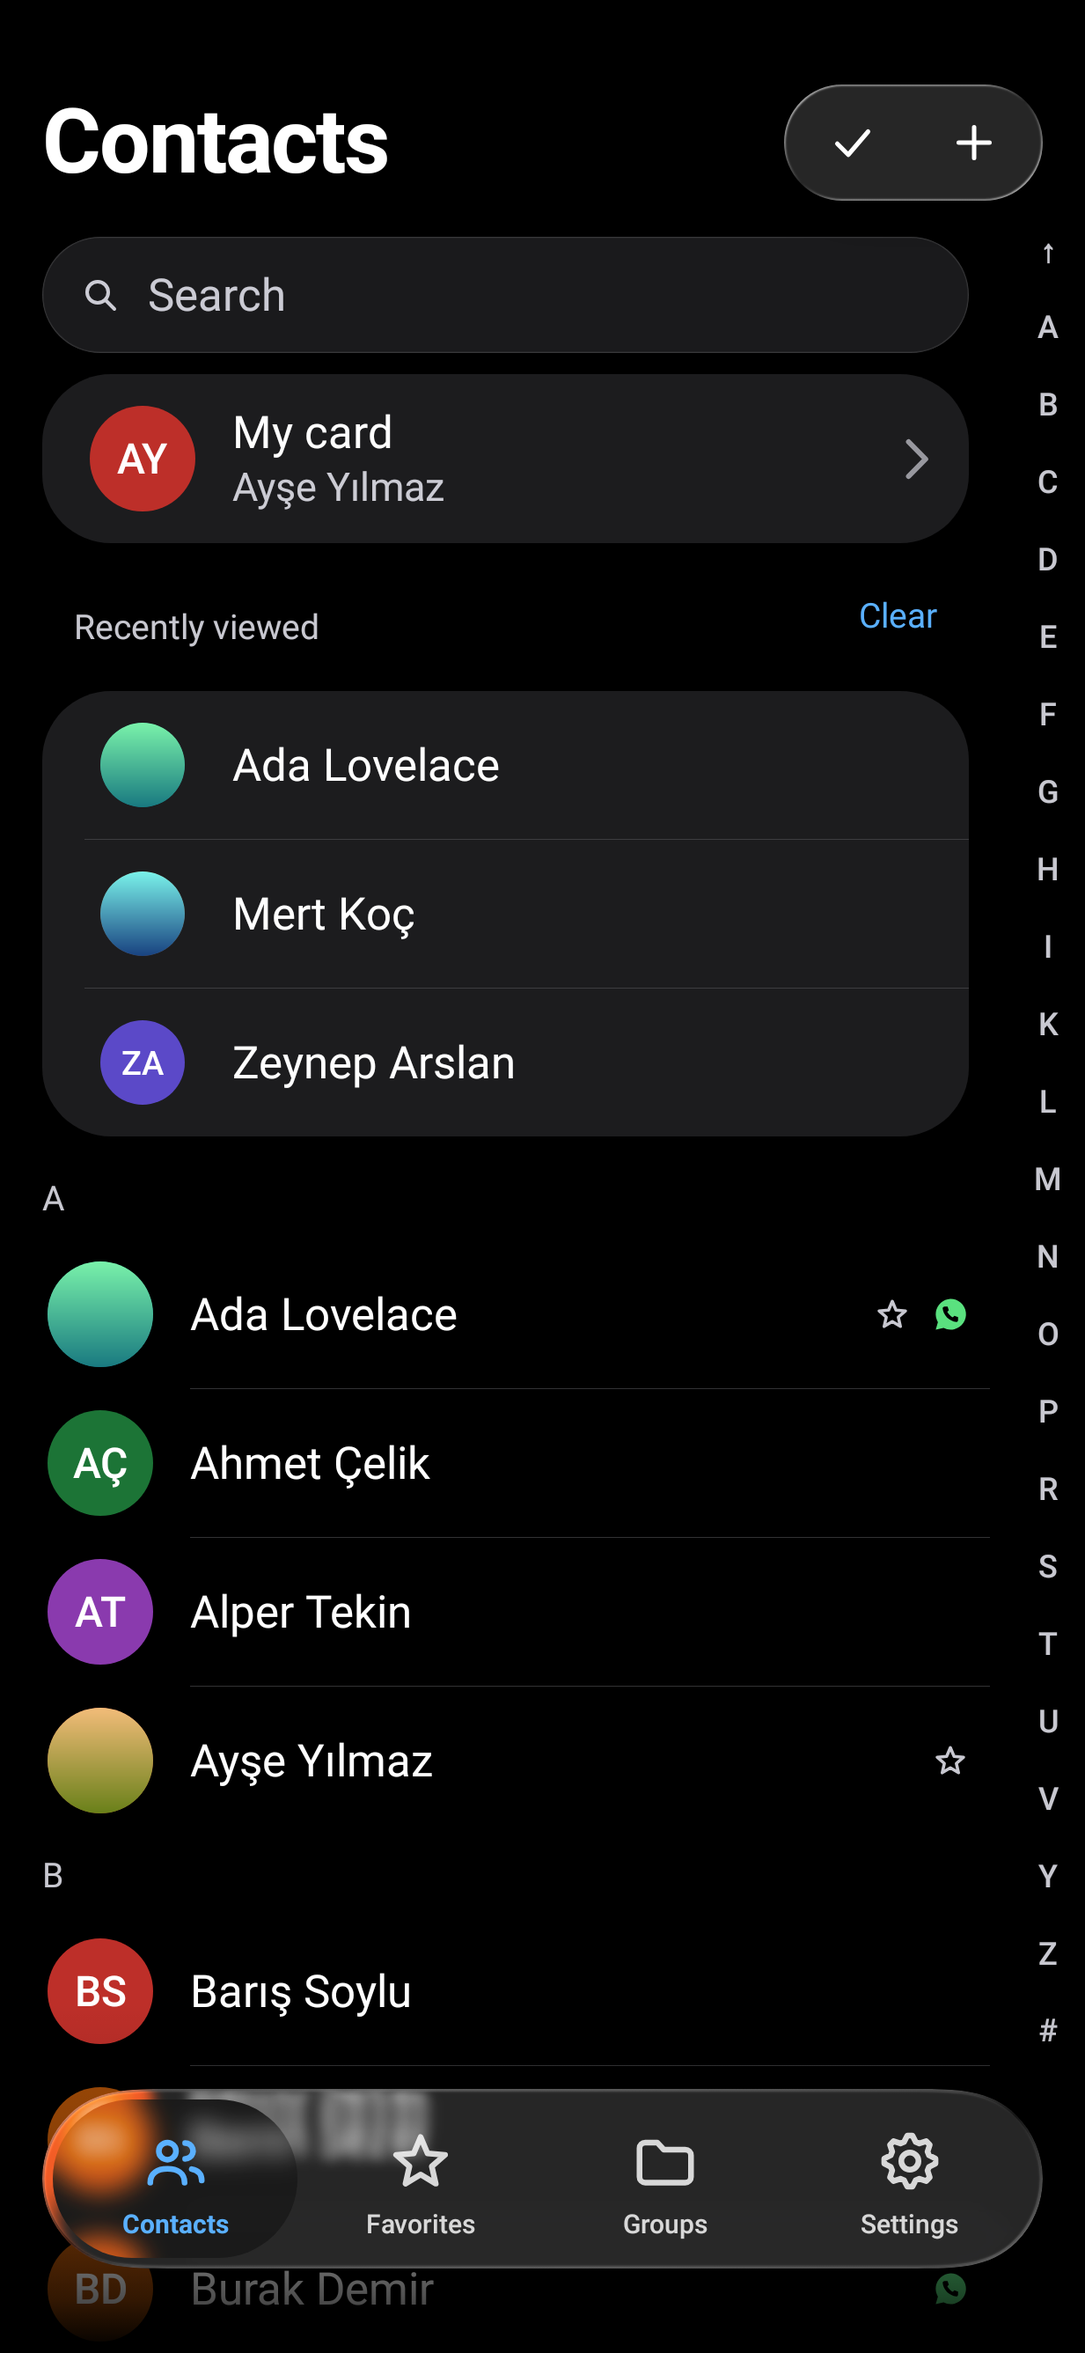
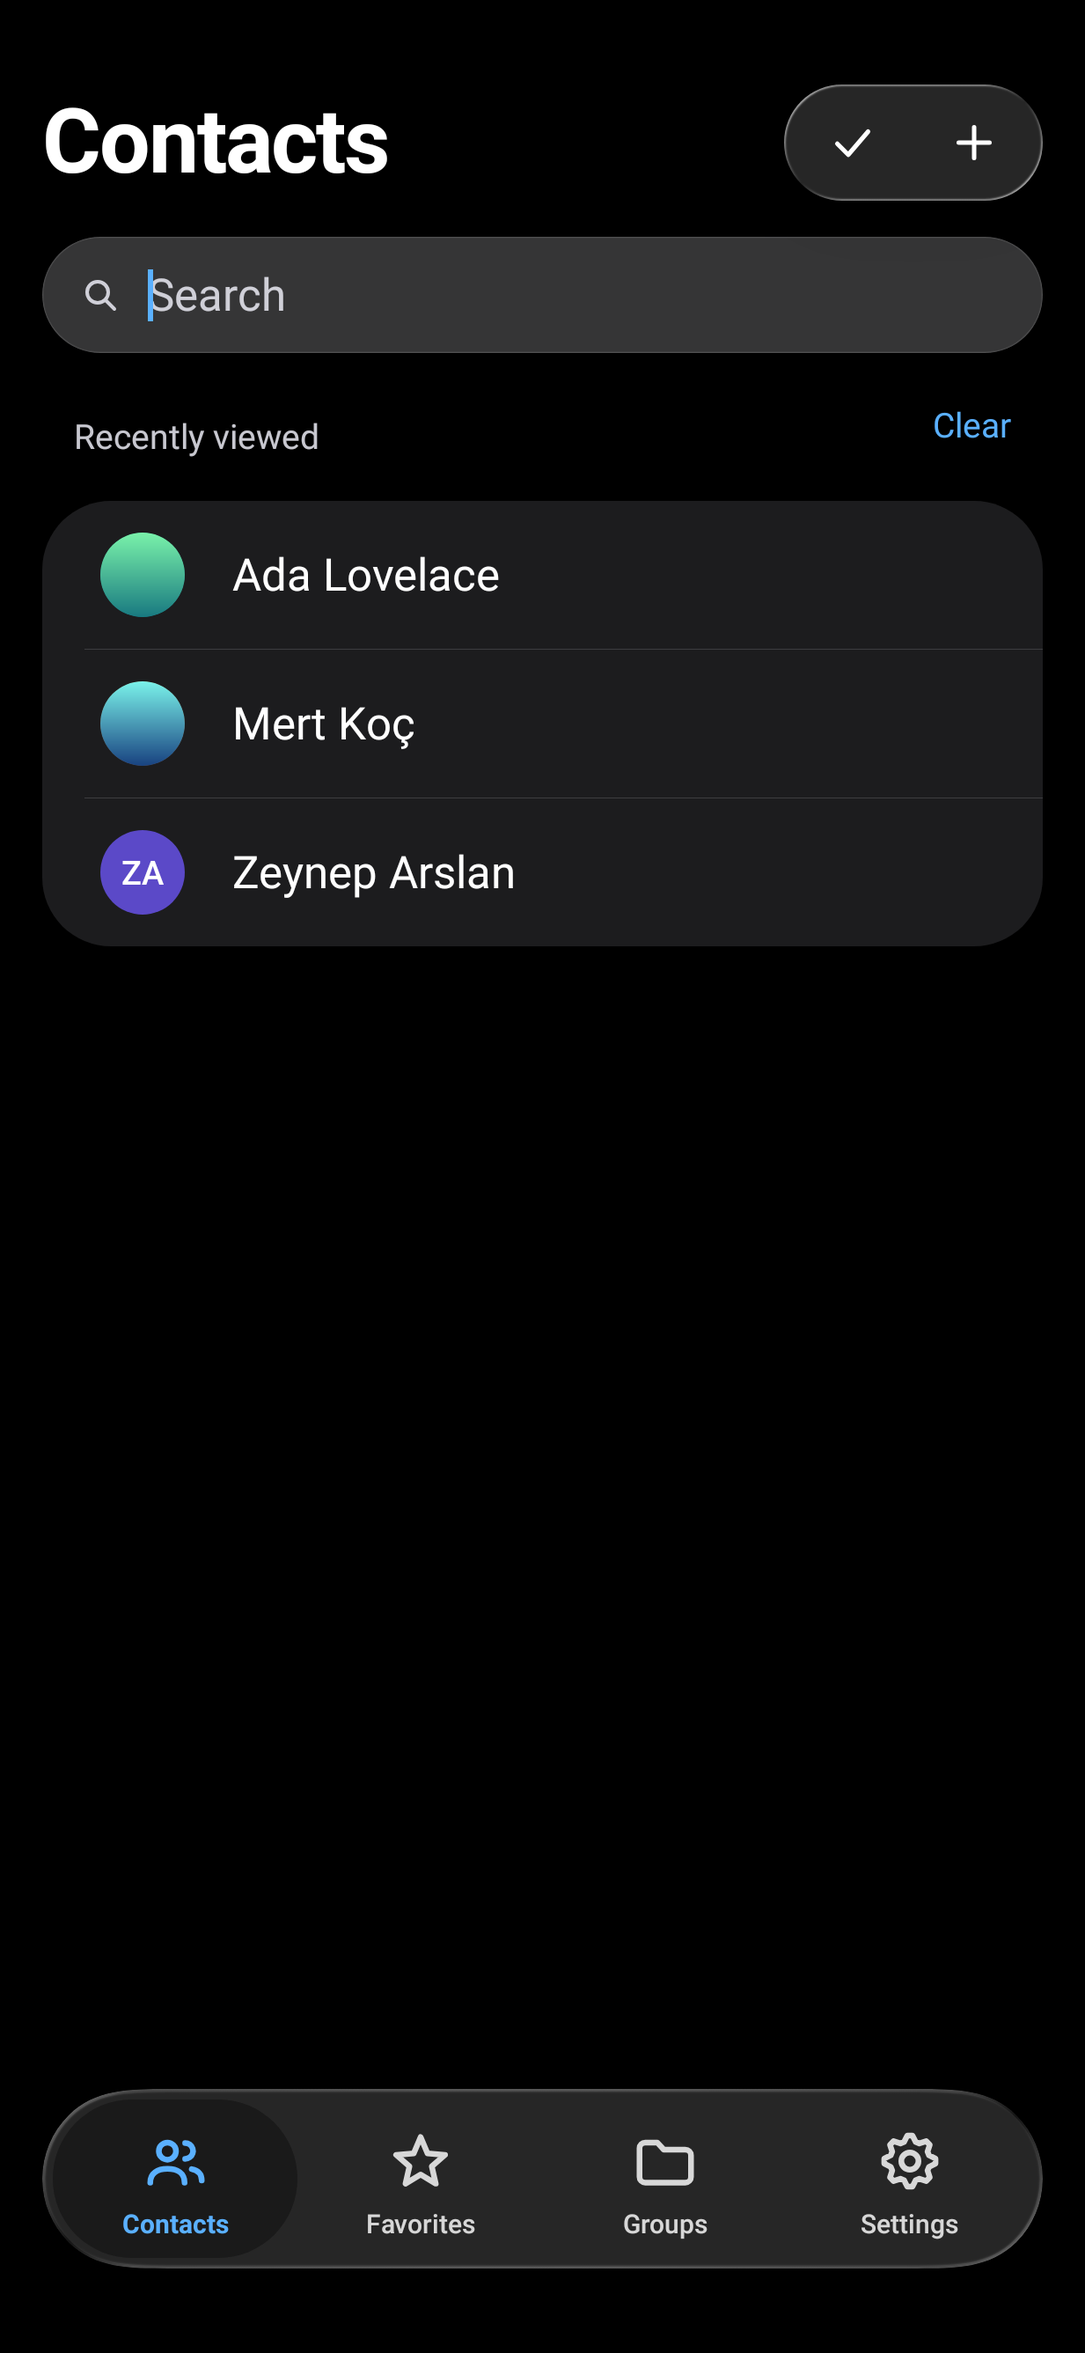
Contacts: recently viewed only while search is focused
Claude-Session: https://claude.ai/code/session_011osUpA1K6vuojYE5Xq1SJx

diff --git a/android/contacts/src/main/kotlin/dev/rovsti/contacts/list/ContactsListScreen.kt b/android/contacts/src/main/kotlin/dev/rovsti/contacts/list/ContactsListScreen.kt
@@ -32,9 +32,11 @@ import androidx.compose.runtime.snapshotFlow
 import androidx.compose.ui.Alignment
 import androidx.compose.ui.Modifier
 import androidx.compose.ui.draw.clipToBounds
+import androidx.compose.ui.focus.onFocusChanged
 import androidx.compose.ui.graphics.vector.ImageVector
 import androidx.compose.ui.input.nestedscroll.nestedScroll
 import androidx.compose.ui.platform.LocalContext
+import androidx.compose.ui.platform.LocalFocusManager
 import androidx.compose.ui.platform.testTag
 import androidx.compose.ui.res.stringResource
 import androidx.compose.ui.semantics.Role
@@ -150,10 +152,22 @@ fun ContactsListScreen(
     BackHandler(enabled = select != null) { onAction(ContactsListAction.ExitSelect) }
     val actions = rememberToolbar(ready, state.rows.isNotEmpty(), onAction, onPasteContact, onScanQr)
     val searching = state.query.isNotBlank()
-    val railShown = ready && state.showScrubber && !searching
+    // A focused, still empty search shows only "Recently viewed": no full list, so no rail either.
+    val railShown = ready && state.showScrubber && !searching && !state.searchFocused
+    val focus = LocalFocusManager.current
+    // Back (or the keyboard's dismissal) leaves the focused search before anything else pops.
+    BackHandler(enabled = state.searchFocused && select == null) { focus.clearFocus() }
+    val dispatch: (ContactsListAction) -> Unit =
+        remember(onAction, focus, searching) {
+            { action ->
+                // Opening a recent contact ends the search, so the list is back when the card closes.
+                if (action is ContactsListAction.Open && !searching) focus.clearFocus()
+                onAction(action)
+            }
+        }
     val endInset = if (railShown) ListScrollRailWidth else Dp(0f)
     val onPick: () -> Unit = {
-        showAddPicker(context, overlays, state.pickables, onAction)
+        showAddPicker(context, overlays, state.pickables, dispatch)
     }
     Box(modifier.testTag("contacts-list-screen")) {
         LargeTitleScaffold(
@@ -161,7 +175,7 @@ fun ContactsListScreen(
             state = listState,
             actions = actions,
             modifier = Modifier.testTag("contacts-list-page"),
-            actionsContent = select?.let { { SelectTitleButtons(it, onAction) } },
+            actionsContent = select?.let { { SelectTitleButtons(it, dispatch) } },
         ) {
             item(key = "search", contentType = "search") {
                 SearchField(
@@ -173,13 +187,14 @@ fun ContactsListScreen(
                                 end = Spacing.gutter + endInset,
                                 top = Spacing.s,
                                 bottom = Spacing.s,
-                            ).testTag(ListTags.Search),
+                            ).onFocusChanged { latestAction.value(ContactsListAction.SearchFocusChanged(it.hasFocus)) }
+                            .testTag(ListTags.Search),
                 )
             }
             when (state.phase) {
                 ListPhase.Loading -> Unit
                 ListPhase.NoPermission -> item(key = "gate", contentType = "gate") { gate?.invoke() }
-                ListPhase.Ready -> readyItems(state, endInset, overlays, onAction, onPick)
+                ListPhase.Ready -> readyItems(state, endInset, overlays, dispatch, onPick)
             }
         }
         if (railShown) {
@@ -251,15 +266,19 @@ private fun LazyListScope.readyItems(
 ) {
     val searching = state.query.isNotBlank()
     val select = state.selectMode
+    if (state.searchFocused && !searching && select == null) {
+        // The focused, empty search shows Recently Viewed instead of the list (E4.2).
+        if (state.viewed.isNotEmpty()) {
+            item(key = "viewed", contentType = "group") { ViewedSection(state, endInset, overlays, onAction) }
+        }
+        return
+    }
     if (!searching && select == null) {
         state.myCard?.let { card ->
             item(key = "my-card", contentType = "group") { MyCardSection(card, endInset, onAction) }
         }
         if (state.emergencyDetail != null || state.recentEntry != null) {
             item(key = "top-links", contentType = "group") { TopLinksSection(state, endInset, onAction) }
-        }
-        if (state.viewed.isNotEmpty()) {
-            item(key = "viewed", contentType = "group") { ViewedSection(state, endInset, overlays, onAction) }
         }
     }
     if (state.emptyKind != EmptyKind.None) {

diff --git a/android/contacts/src/main/kotlin/dev/rovsti/contacts/list/ContactsListViewModel.kt b/android/contacts/src/main/kotlin/dev/rovsti/contacts/list/ContactsListViewModel.kt
@@ -82,6 +82,7 @@ class ContactsListViewModel(
     private val worker: CoroutineDispatcher = Dispatchers.Default,
 ) : ViewModel() {
     private val query = MutableStateFlow("")
+    private val searchFocused = MutableStateFlow(false)
     private val menus = HashMap<MenuKey, ImmutableList<QuickAction>>()
     private val outbox = Channel<ContactsListEffect>(Channel.UNLIMITED)
     private val select = SelectController(book, contacts, ops, trash, clipboard, clock) { outbox.trySend(it) }
@@ -94,6 +95,7 @@ class ContactsListViewModel(
         val order: List<String>,
         val marks: Map<Long, String>,
         val query: String,
+        val searchFocused: Boolean,
         val hidden: Set<Long>,
     )
 
@@ -102,8 +104,8 @@ class ContactsListViewModel(
         combine(
             combine(book.book, book.index, book.deep) { b, i, d -> Triple(b, i, d) },
             combine(store.prefs, store.favoritesOrder, waMarks.marks) { p, o, m -> Triple(p, o, m) },
-            combine(query, select.hidden) { q, h -> q to h },
-        ) { (b, i, d), (p, o, m), (q, h) -> Inputs(b, i, d, p, o, m, q, h) }
+            combine(query, select.hidden, searchFocused) { q, h, f -> Triple(q, h, f) },
+        ) { (b, i, d), (p, o, m), (q, h, f) -> Inputs(b, i, d, p, o, m, q, f, h) }
             .conflate()
             .mapLatest { build(it) }
             .combine(select.selection) { built, chosen -> built to chosen }
@@ -137,6 +139,8 @@ class ContactsListViewModel(
     fun onAction(action: ContactsListAction) {
         when (action) {
             is ContactsListAction.QueryChanged -> query.value = action.text
+
+            is ContactsListAction.SearchFocusChanged -> searchFocused.value = action.focused
 
             is ContactsListAction.Open -> viewModelScope.launch { open(action.id) }
 
@@ -189,9 +193,17 @@ class ContactsListViewModel(
 
     private suspend fun build(i: Inputs): ContactsListUiState =
         when (val b = i.book) {
-            Book.Loading -> ContactsListUiState(phase = ListPhase.Loading, query = i.query)
-            Book.NoPermission -> ContactsListUiState(phase = ListPhase.NoPermission, query = i.query)
-            is Book.Ready -> buildReady(b, i)
+            Book.Loading -> {
+                ContactsListUiState(phase = ListPhase.Loading, query = i.query, searchFocused = i.searchFocused)
+            }
+
+            Book.NoPermission -> {
+                ContactsListUiState(phase = ListPhase.NoPermission, query = i.query, searchFocused = i.searchFocused)
+            }
+
+            is Book.Ready -> {
+                buildReady(b, i)
+            }
         }
 
     private suspend fun buildReady(
@@ -210,6 +222,7 @@ class ContactsListViewModel(
                 ?: return ContactsListUiState(
                     phase = ListPhase.Ready,
                     query = i.query,
+                    searchFocused = i.searchFocused,
                     emptyKind = if (searching) EmptyKind.NoResults else EmptyKind.NoContacts,
                     queryEcho = i.query.trim(),
                 )
@@ -244,7 +257,10 @@ class ContactsListViewModel(
                 viewedClear = lists.clearViewed.toUi()
                 if (lists.showEntry) recent = RecentEntry(lists.entryTitle, lists.entryDetail)
                 val byId = b.contacts.associateBy { it.id }
-                viewed = itemsOf(lists.viewed.mapNotNull { byId[it] }, i.prefs, i.order, i.marks, lists.viewed)
+                // Recently viewed belongs to the focused, still empty search; the main list does not carry it.
+                if (i.searchFocused) {
+                    viewed = itemsOf(lists.viewed.mapNotNull { byId[it] }, i.prefs, i.order, i.marks, lists.viewed)
+                }
             }
         }
         val keys = (rows + deep + viewed + pickables).map { it.menuKey }.toSet()
@@ -257,6 +273,7 @@ class ContactsListViewModel(
             sectionIndex = sectionIndex,
             scrubItems = scrubItems,
             query = i.query,
+            searchFocused = i.searchFocused,
             queryEcho = answer.queryEcho,
             emptyKind = empty,
             offer = offer,

diff --git a/android/contacts/src/test/kotlin/dev/rovsti/contacts/list/ContactsListScreenTest.kt b/android/contacts/src/test/kotlin/dev/rovsti/contacts/list/ContactsListScreenTest.kt
@@ -39,7 +39,8 @@ class ContactsListScreenTest : ShotTest() {
     private fun harness(
         state: ContactsListUiState = SampleBook.state(),
         onQuery: ((String) -> ContactsListUiState)? = null,
-    ) = ListHarness(state, onQuery)
+        onFocus: ((Boolean) -> ContactsListUiState)? = null,
+    ) = ListHarness(state, onQuery, onFocus)
 
     private fun show(h: ListHarness) {
         composeFrame { HostedList(h, haptics) }
@@ -87,6 +88,56 @@ class ContactsListScreenTest : ShotTest() {
         }
         advance(100)
         assertEquals(listOf(HapticEvent.Tick, HapticEvent.Tick, HapticEvent.Tick), haptics.events)
+    }
+
+    @Test fun recentlyViewedShowsOnlyWhileTheSearchIsFocusedAndEmpty() {
+        val items = SampleBook.items()
+        val viewed =
+            listOf(11L, 22L, 6L).map { id ->
+                items.first { it.id == id }.copy(header = false, secondary = null)
+            }
+        val flat = items.filter { 'a' in it.name.lowercase() }.map { it.copy(header = false) }
+        var typed = ""
+        var focused = false
+
+        fun at(): ContactsListUiState =
+            if (!focused) {
+                SampleBook.state(items, typed)
+            } else if (typed.isEmpty()) {
+                SampleBook.state(items, viewed = viewed).copy(searchFocused = true)
+            } else {
+                SampleBook.state(flat, typed).copy(searchFocused = true)
+            }
+
+        val h =
+            harness(
+                onQuery = {
+                    typed = it
+                    at()
+                },
+                onFocus = {
+                    focused = it
+                    at()
+                },
+            )
+        show(h)
+        // The main list: the alphabet rail, no Recently Viewed.
+        compose.onAllNodesWithTag(ListTags.Viewed).assertCountEquals(0)
+        compose.onAllNodesWithTag(AlphabetRailTags.Rail).assertCountEquals(1)
+        // Tapping the search field shows Recently Viewed instead of the list; the rail is hidden.
+        compose.onNodeWithTag(ListTags.Search).performClick()
+        advance(100)
+        assertEquals(ContactsListAction.SearchFocusChanged(true), h.actions.last())
+        compose.onNodeWithTag(ListTags.Viewed).assertIsDisplayed()
+        compose.onNodeWithTag(ListTags.ViewedClear).assertIsDisplayed()
+        compose.onAllNodesWithTag(AlphabetRailTags.Rail).assertCountEquals(0)
+        compose.onAllNodesWithTag(ListTags.row(items.first { it.id !in listOf(11L, 22L, 6L) }.id)).assertCountEquals(0)
+        // Typing hides it and leaves only the results.
+        compose.onNodeWithTag(ListTags.Search).performTextInput("a")
+        advance(100)
+        assertEquals(ContactsListAction.QueryChanged("a"), h.actions.last())
+        compose.onAllNodesWithTag(ListTags.Viewed).assertCountEquals(0)
+        compose.onNodeWithTag(ListTags.row(flat.first().id)).assertIsDisplayed()
     }
 
     @Test fun theRailIsGoneWhileSearching() {

diff --git a/android/contacts/src/test/kotlin/dev/rovsti/contacts/list/ContactsListViewModelTest.kt b/android/contacts/src/test/kotlin/dev/rovsti/contacts/list/ContactsListViewModelTest.kt
@@ -207,10 +207,13 @@ class ContactsListViewModelTest {
         runBlocking<Unit> {
             model.onAction(ContactsListAction.Open(11))
             assertEquals(ContactsListEffect.OpenCard(11), effect())
-            val state = stateWhere { it.viewed.isNotEmpty() }
+            // The main list never carries the section; the focused, empty search does.
+            assertTrue(stateWhere { it.rows.size == 40 }.viewed.isEmpty())
+            model.onAction(ContactsListAction.SearchFocusChanged(true))
+            val state = stateWhere { it.searchFocused && it.viewed.isNotEmpty() }
             assertEquals(listOf("Ada Lovelace"), state.viewed.map { it.name })
             assertEquals(listOf("k-11"), store.viewed)
-            // Searching hides the section; clearing asks first, then empties it.
+            // Clearing asks first, then empties it.
             model.onAction(ContactsListAction.AskClearViewed)
             val ask = effect() as ContactsListEffect.ConfirmClearViewed
             assertTrue(
@@ -222,6 +225,30 @@ class ContactsListViewModelTest {
             assertEquals(ContactsListEffect.Toast(UiText.Res(R.string.contacts_recently_viewed_cleared)), effect())
             stateWhere { it.viewed.isEmpty() }
             assertEquals(emptyList<String>(), store.viewed)
+        }
+
+    @Test fun recentlyViewedFollowsTheSearchFocusAndTheQuery() =
+        runBlocking<Unit> {
+            model.onAction(ContactsListAction.Open(11))
+            assertEquals(ContactsListEffect.OpenCard(11), effect())
+            // Main list (not focused): no section.
+            assertTrue(stateWhere { !it.searchFocused && it.rows.size == 40 }.viewed.isEmpty())
+            // Focused with nothing typed: the section.
+            model.onAction(ContactsListAction.SearchFocusChanged(true))
+            val focused = stateWhere { it.searchFocused && it.viewed.isNotEmpty() }
+            assertEquals(listOf("Ada Lovelace"), focused.viewed.map { it.name })
+            // Typing: only results, the section goes away.
+            val typed = search("al")
+            assertTrue(typed.searchFocused)
+            assertTrue(typed.viewed.isEmpty())
+            assertTrue(typed.rows.any { it.name == "Ada Lovelace" })
+            // Erasing the text while still focused brings it back.
+            model.onAction(ContactsListAction.QueryChanged(""))
+            stateWhere { it.query.isEmpty() && it.searchFocused && it.viewed.isNotEmpty() }
+            // Unfocused with an empty query: the full list again, no section.
+            model.onAction(ContactsListAction.SearchFocusChanged(false))
+            val back = stateWhere { !it.searchFocused && it.viewed.isEmpty() && it.query.isEmpty() }
+            assertEquals(40, back.rows.size)
         }
 
     @Test fun theLongPressMenuComesFromTheQuickActions() =

diff --git a/android/contacts/src/main/kotlin/dev/rovsti/contacts/list/ContactsListState.kt b/android/contacts/src/main/kotlin/dev/rovsti/contacts/list/ContactsListState.kt
@@ -113,11 +113,14 @@ data class ContactsListUiState(
     /** Headers plus rows: what the rail scrubs over. */
     val scrubItems: Int = 0,
     val query: String = "",
+    /** The search field has focus (E4.2): with nothing typed the page shows only [viewed], like iOS. */
+    val searchFocused: Boolean = false,
     val queryEcho: String = "",
     val emptyKind: EmptyKind = EmptyKind.None,
     val offer: SearchOffer = SearchOffer(),
     /** Contacts the "Add to a Contact" sheet offers. */
     val pickables: ImmutableList<ContactItem> = persistentListOf(),
+    /** Recently viewed contacts; filled only while the search is focused and empty, so the main list has none. */
     val viewed: ImmutableList<ContactItem> = persistentListOf(),
     val viewedClear: UiConfirm = UiConfirm(UiText.Res(R.string.contacts_clear_recently_viewed), UiText.Literal("")),
     val myCard: MyCardItem? = null,
@@ -133,6 +136,11 @@ data class ContactsListUiState(
 sealed interface ContactsListAction {
     data class QueryChanged(
         val text: String,
+    ) : ContactsListAction
+
+    /** The search field gained or lost focus. */
+    data class SearchFocusChanged(
+        val focused: Boolean,
     ) : ContactsListAction
 
     data class Open(

diff --git a/android/contacts/src/test/kotlin/dev/rovsti/contacts/list/E42ShotTest.kt b/android/contacts/src/test/kotlin/dev/rovsti/contacts/list/E42ShotTest.kt
@@ -6,6 +6,7 @@ import androidx.compose.ui.geometry.Offset
 import androidx.compose.ui.test.longClick
 import androidx.compose.ui.test.onNodeWithTag
 import androidx.compose.ui.test.onRoot
+import androidx.compose.ui.test.performClick
 import androidx.compose.ui.test.performTouchInput
 import com.github.takahirom.roborazzi.RoborazziOptions
 import com.github.takahirom.roborazzi.captureRoboImage
@@ -123,10 +124,11 @@ class E42ShotTest : ShotTest() {
             listOf(11L, 22L, 6L).map { id ->
                 items.first { it.id == id }.copy(header = false, secondary = null)
             }
-        val state =
-            SampleBook.state(items, viewed = viewed).copy(
-                myCard = MyCardItem(1, "My card", "Ayşe Yılmaz"),
-            )
-        snap("e4.2-recently-viewed", { ListHarness(state) })
+        // The search field focused with nothing typed: Recently Viewed stands in for the list (My Card and the rail go).
+        val focused = SampleBook.state(items, viewed = viewed).copy(searchFocused = true)
+        snap("e4.2-recently-viewed", { ListHarness(focused) }, before = {
+            compose.onNodeWithTag(ListTags.Search).performClick()
+            advance(300)
+        })
     }
 }

diff --git a/android/contacts/src/test/kotlin/dev/rovsti/contacts/list/ListTestSupport.kt b/android/contacts/src/test/kotlin/dev/rovsti/contacts/list/ListTestSupport.kt
@@ -34,6 +34,8 @@ internal class ListHarness(
     initial: ContactsListUiState,
     /** Maps a typed query to the state to show (the view model's job); null keeps the state. */
     private val onQuery: ((String) -> ContactsListUiState)? = null,
+    /** Maps the search field's focus to the state to show (the view model's job); null only records it. */
+    private val onFocus: ((Boolean) -> ContactsListUiState)? = null,
 ) {
     var ui by mutableStateOf(initial)
     val actions = mutableListOf<ContactsListAction>()
@@ -47,6 +49,7 @@ internal class ListHarness(
     fun on(action: ContactsListAction) {
         actions += action
         if (action is ContactsListAction.QueryChanged) onQuery?.let { ui = it(action.text) }
+        if (action is ContactsListAction.SearchFocusChanged) onFocus?.let { ui = it(action.focused) }
         if (simulateSelect) applySelect(action)
     }
 
